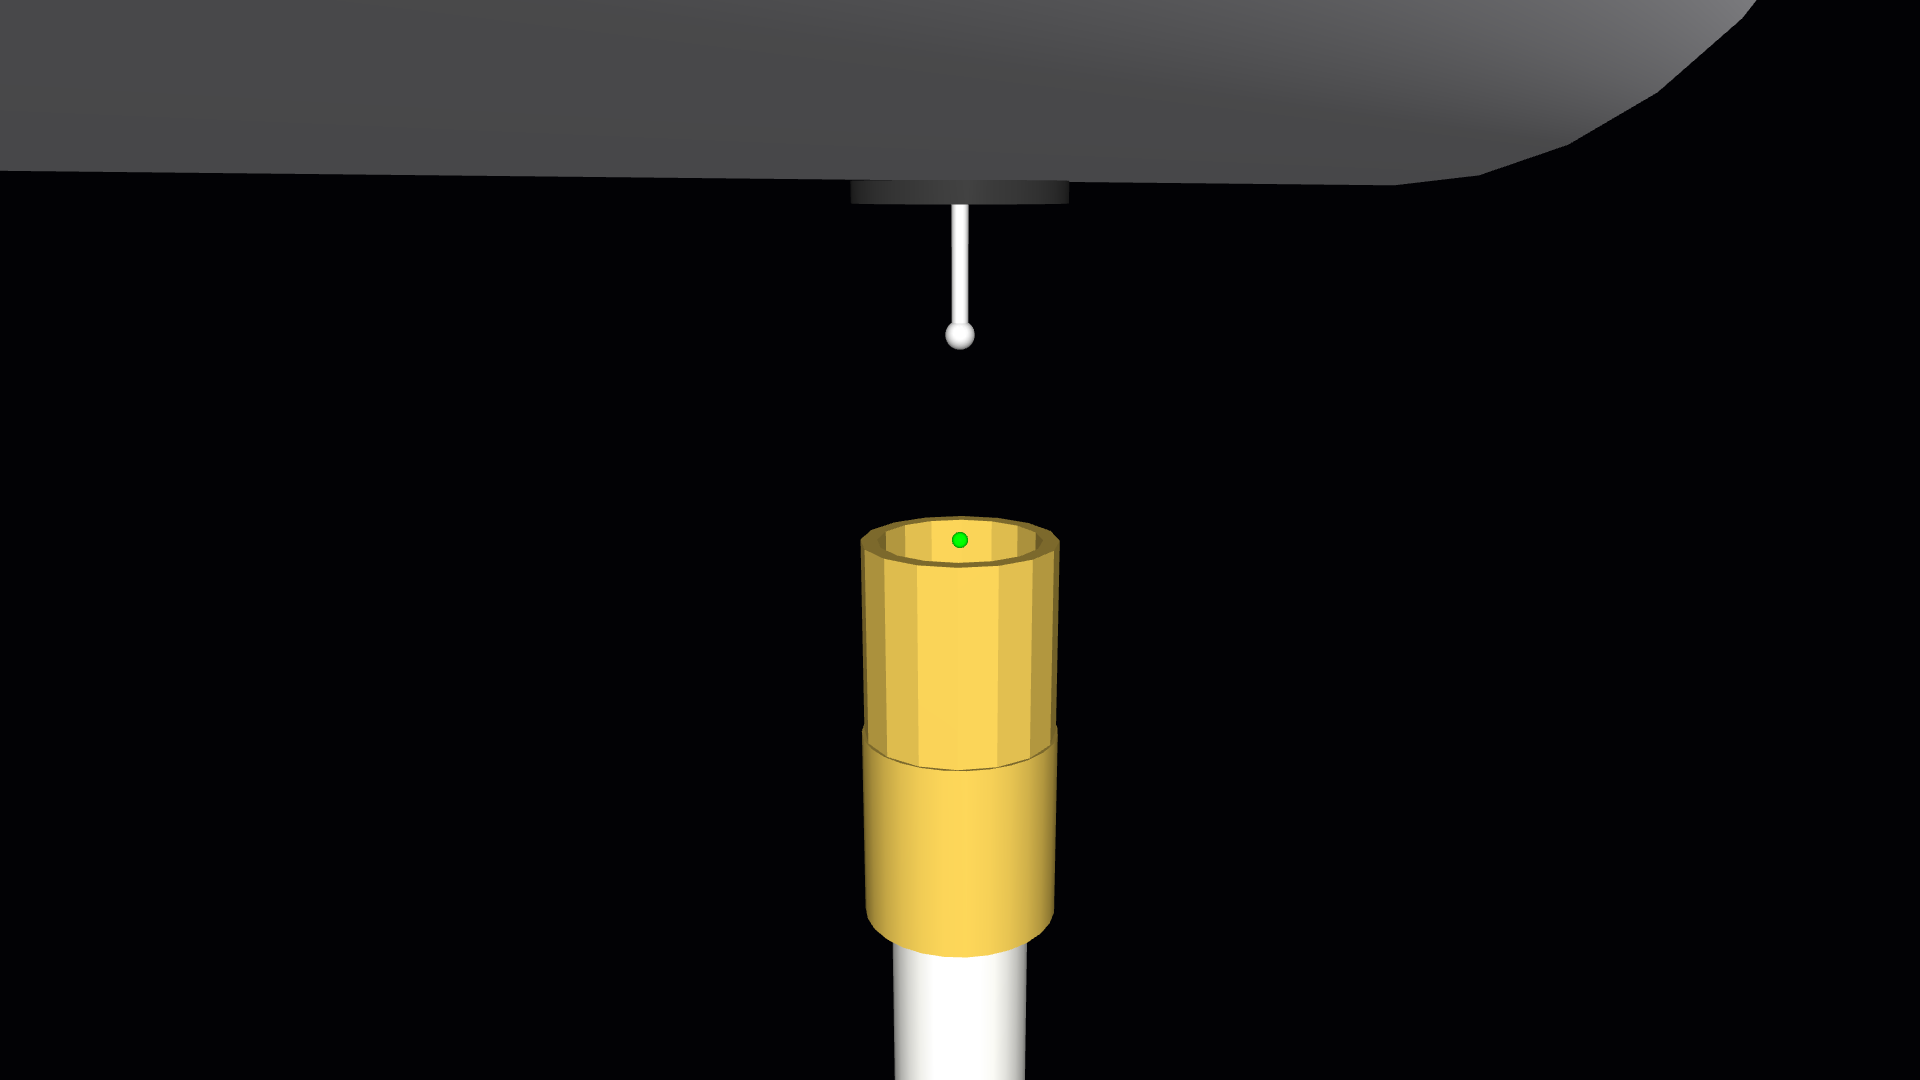
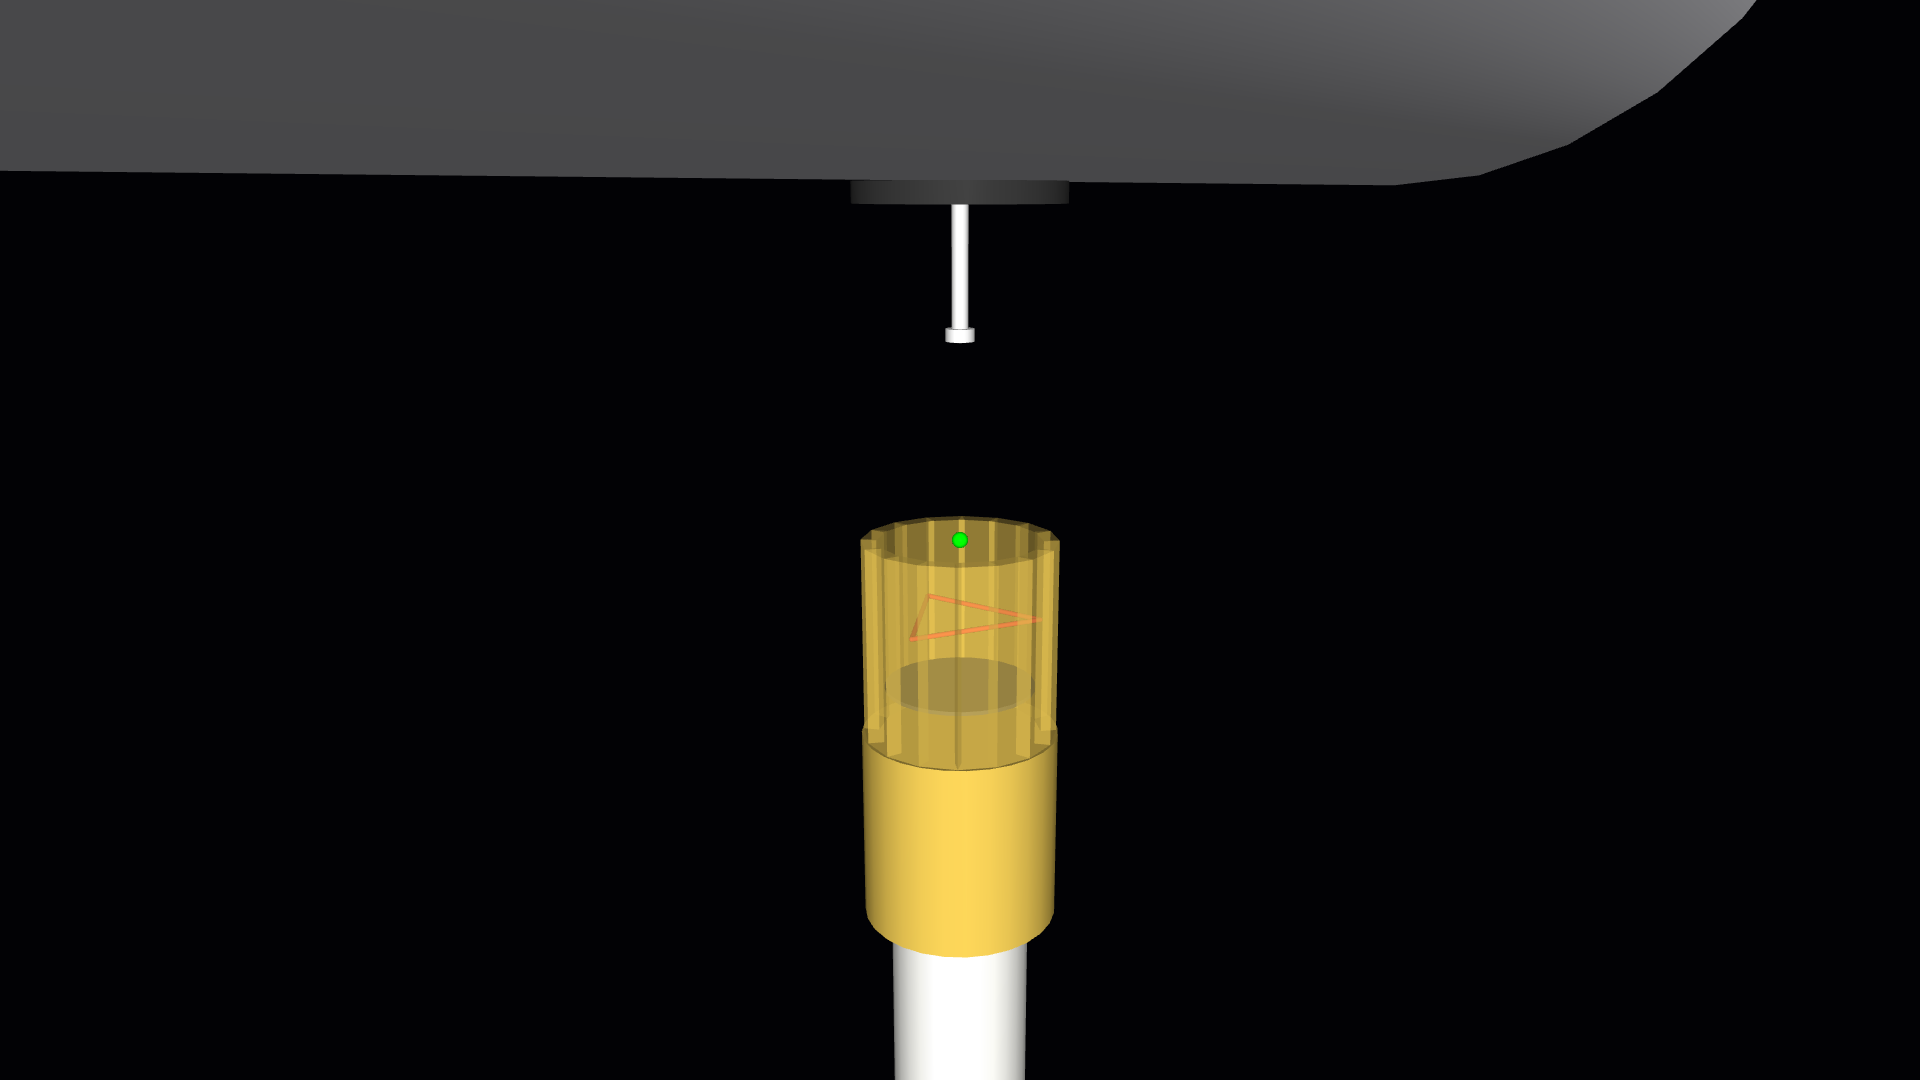
Milestone 2: snare mechanism
Add a carriage and three closing bars inside the end effector. The open
snare is the triangle inscribed in the cavity, giving the published
0.1 m lateral capture tolerance. A single drive closes all three bars.

The first design used a ball-tipped pin and did not hold: the ball
wedged the bars apart under a 100 N pull. A flat-backed knob and a
stiff snare drive fix it. The capture now holds 500 N and stays caught
at 2000 N.

Add eight snare tests, a grapple animation, and the milestone 2 entries
in the plan and build log. The README now says how the project was built.

Changed region(s): [[0.4375, 0.4583, 0.5625, 0.7333]]

diff --git a/tests/test_snare.py b/tests/test_snare.py
@@ -1,0 +1,71 @@
+"""Milestone 2 checks: the snare centres, seats, and holds a pin that starts inside the cavity.
+
+The arm holds still and the vehicle starts at rest; approaching is milestone 3.
+"""
+
+import mujoco
+import numpy as np
+import pytest
+
+from capture import scene, snare
+
+INSERTED = -0.28  # pin tip 0.28 m inside the cavity, past the snare plane
+SEATED = -0.30  # pin length: the fixture plate rests on the rim
+PULL_TIME = 20.0
+
+
+@pytest.fixture(scope="module")
+def model():
+    return scene.build_model()
+
+
+def run(model, lateral=(0.0, 0.0), grapple=True, pull=0.0, stop_after=None):
+    """Run the grapple sequence, then pull the vehicle straight out with `pull` newtons."""
+    data = mujoco.MjData(model)
+    scene.reset(model, data, standoff=INSERTED, lateral=lateral)
+    vid = model.body("vehicle").id
+    dt = model.opt.timestep
+    total = stop_after if stop_after is not None else snare.SEQUENCE_TIME + 2.0 + PULL_TIME
+    for i in range(int(round(total / dt))):
+        t = i * dt
+        if grapple:
+            scene.set_snare(model, data, *snare.grapple_command(t))
+        data.xfrc_applied[vid] = 0
+        if t > snare.SEQUENCE_TIME + 2.0:
+            out = data.site("lee_mouth").xmat.reshape(3, 3)[:, 2]
+            data.xfrc_applied[vid, :3] = pull * out
+        mujoco.mj_step(model, data)
+    return data
+
+
+def test_open_snare_does_not_touch_the_pin(model):
+    data = run(model, lateral=(0.05, 0.0), grapple=False, stop_after=1.0)
+    assert data.ncon == 0
+
+
+def test_snare_centres_an_offset_pin(model):
+    data = run(model, lateral=(0.06, 0.02), stop_after=snare.CLOSE_TIME + snare.SETTLE_TIME)
+    assert np.linalg.norm(scene.pin_offset(model, data)[:2]) < 0.005
+
+
+def test_pull_in_seats_the_fixture_plate(model):
+    data = run(model, stop_after=snare.SEQUENCE_TIME + 2.0)
+    assert scene.pin_offset(model, data)[2] == pytest.approx(SEATED, abs=0.002)
+
+
+@pytest.mark.parametrize("lateral", [(0.0, 0.0), (0.06, 0.02), (0.085, 0.0)])
+def test_capture_holds_against_500_newtons(model, lateral):
+    offset = scene.pin_offset(model, run(model, lateral=lateral, pull=500.0))
+    assert offset[2] == pytest.approx(SEATED, abs=0.002)
+    assert np.linalg.norm(offset[:2]) < 0.005
+
+
+def test_overload_backs_the_pin_out_but_keeps_it(model):
+    # 2000 N is twice the carriage force limit: the plate unseats, the snare still holds.
+    z = scene.pin_offset(model, run(model, pull=2000.0))[2]
+    assert SEATED + 0.02 < z < 0
+
+
+def test_without_the_snare_the_vehicle_escapes(model):
+    z = scene.pin_offset(model, run(model, grapple=False, pull=100.0))[2]
+    assert z > 1.0

diff --git a/capture/scene.py b/capture/scene.py
@@ -27,6 +27,11 @@ WALL_THICKNESS = 0.04
 WALL_SEGMENTS = 16
 WALL_MASS = 40.0
 
+# Snare actuator travel [m]. The bars start 0.1 m from the axis; commanding past the
+# pin surface makes them press on it. The carriage pulls the closed snare inward.
+SNARE_TRAVEL = 0.08
+CARRIAGE_TRAVEL = 0.1
+
 
 def _add_cavity_wall(spec: mujoco.MjSpec) -> None:
     """Approximate a hollow cylinder with a ring of boxes.
@@ -48,6 +53,7 @@ def _add_cavity_wall(spec: mujoco.MjSpec) -> None:
             pos=[r_mid * np.cos(phi), r_mid * np.sin(phi), (CAVITY_Z0 + CAVITY_Z1) / 2],
             quat=[np.cos(theta / 2), 0, 0, np.sin(theta / 2)],
             mass=WALL_MASS / WALL_SEGMENTS,
+            rgba=[0.85, 0.72, 0.3, 0.35],  # see-through, so the snare is visible
         )
 
 
@@ -64,7 +70,22 @@ def arm_qpos_adr(model: mujoco.MjModel) -> np.ndarray:
 def set_arm(model: mujoco.MjModel, data: mujoco.MjData, q: np.ndarray) -> None:
     """Put the arm at joint angles q and command the actuators to hold it there."""
     data.qpos[arm_qpos_adr(model)] = q
-    data.ctrl[:] = q
+    data.ctrl[: len(ARM_JOINTS)] = q
+
+
+def set_snare(model: mujoco.MjModel, data: mujoco.MjData, close: float, retract: float) -> None:
+    """Command the snare. Both arguments run from 0 (open / extended) to 1 (closed / retracted)."""
+    data.ctrl[model.actuator("a_snare").id] = close * SNARE_TRAVEL
+    data.ctrl[model.actuator("a_carriage").id] = retract * CARRIAGE_TRAVEL
+
+
+def pin_offset(model: mujoco.MjModel, data: mujoco.MjData) -> np.ndarray:
+    """Pin tip position in the end-effector mouth frame: (x, y) lateral, z along the approach axis.
+
+    z is positive outside the cavity and negative inside it.
+    """
+    mouth = data.site("lee_mouth")
+    return mouth.xmat.reshape(3, 3).T @ (data.site("pin_tip").xpos - mouth.xpos)
 
 
 def place_vehicle(
@@ -76,6 +97,7 @@ def place_vehicle(
     """Place the vehicle so its grapple pin faces the end-effector mouth.
 
     standoff: distance from the mouth to the pin tip along the approach axis [m].
+              Negative puts the tip inside the cavity.
     lateral:  pin offset from the approach axis, in the end-effector x/y [m].
 
     Uses the arm's current pose. Vehicle velocity is left unchanged.

diff --git a/scripts/render_capture.py b/scripts/render_capture.py
@@ -1,0 +1,54 @@
+"""Render the grapple sequence (close, centre, pull in) to docs/media/."""
+
+import sys
+from pathlib import Path
+
+import mujoco
+from PIL import Image
+
+ROOT = Path(__file__).resolve().parent.parent
+sys.path.insert(0, str(ROOT))
+
+from capture import scene, snare  # noqa: E402
+
+OUT = ROOT / "docs" / "media"
+FPS = 10
+DURATION = snare.SEQUENCE_TIME + 1.5
+STILLS = {"snare_open": 0.0, "snare_closed": snare.CLOSE_TIME + 1.0, "snare_seated": snare.SEQUENCE_TIME + 1.0}
+
+
+def main() -> None:
+    model = scene.build_model()
+    data = mujoco.MjData(model)
+    # Start 6 cm off-centre so the centring action is visible.
+    scene.reset(model, data, standoff=-0.28, lateral=(0.06, 0.0))
+
+    cam = mujoco.MjvCamera()
+    cam.lookat[:] = data.site("lee_mouth").xpos - [0, 0, 0.12]
+    cam.distance, cam.azimuth, cam.elevation = 1.5, 90.0, -12.0
+
+    dt = model.opt.timestep
+    every = int(round(1 / FPS / dt))
+    still_steps = {int(round(t / dt)): name for name, t in STILLS.items()}
+    frames = []
+    OUT.mkdir(parents=True, exist_ok=True)
+    with mujoco.Renderer(model, height=540, width=960) as renderer:
+        for i in range(int(round(DURATION / dt)) + 1):
+            if i % every == 0 or i in still_steps:
+                renderer.update_scene(data, camera=cam)
+                img = Image.fromarray(renderer.render())
+                if i % every == 0:
+                    frames.append(img.resize((640, 360)))
+                if i in still_steps:
+                    img.save(OUT / f"{still_steps[i]}.png")
+                    print("wrote", f"docs/media/{still_steps[i]}.png")
+            scene.set_snare(model, data, *snare.grapple_command(i * dt))
+            mujoco.mj_step(model, data)
+
+    gif = OUT / "snare_capture.gif"
+    frames[0].save(gif, save_all=True, append_images=frames[1:], duration=1000 // FPS, loop=0, optimize=True)
+    print("wrote", gif.relative_to(ROOT), f"({gif.stat().st_size / 1e6:.1f} MB, {len(frames)} frames)")
+
+
+if __name__ == "__main__":
+    main()

diff --git a/tests/test_scene.py b/tests/test_scene.py
@@ -18,9 +18,10 @@ def steps(model, seconds):
 
 def test_zero_gravity_and_layout(model):
     assert np.all(model.opt.gravity == 0)
-    assert model.nu == len(scene.ARM_JOINTS) == 7
-    # 7 hinge joints + one free joint (3 position + 4 quaternion)
-    assert model.nq == 7 + 7
+    # 7 arm motors, plus the snare drive and the carriage drive
+    assert model.nu == len(scene.ARM_JOINTS) + 2 == 9
+    # 7 arm joints, 4 snare slides, one free joint (3 position + 4 quaternion)
+    assert model.nq == 7 + 4 + 7
 
 
 def test_arm_reach_matches_canadarm2(model):
@@ -80,8 +81,9 @@ def test_arm_tracks_a_step_command(model):
     scene.reset(model, data, standoff=3.0)
     adr = scene.arm_qpos_adr(model)
     target = scene.READY_POSE + np.array([0.1, 0.05, -0.1, 0.1, 0.05, 0.1, -0.1])
-    data.ctrl[:] = target
+    data.ctrl[: len(scene.ARM_JOINTS)] = target
     for _ in range(steps(model, 30.0)):
         mujoco.mj_step(model, data)
     assert data.qpos[adr] == pytest.approx(target, abs=5e-3)
-    assert np.abs(data.qvel[:7]).max() < 1e-3
+    dof = [model.joint(n).dofadr[0] for n in scene.ARM_JOINTS]
+    assert np.abs(data.qvel[dof]).max() < 1e-3

diff --git a/scripts/plan_diagram.py b/scripts/plan_diagram.py
@@ -12,8 +12,8 @@ OUT = Path(__file__).resolve().parent.parent / "docs" / "media" / "plan.svg"
 # (label, title, line 1, line 2, status)
 STAGES = [
     ("1 · ZERO-G WORLD", "Build the scene", "7-joint arm · drifting vehicle", "Grapple pin · hollow end effector", "done"),
-    ("2 · GRAPPLE MECHANISM", "Model the snare", "Closing mechanism on the pin", "Contact friction + compliance", "next"),
-    ("3 · CLOSED LOOP", "Approach and capture", "Track the pin · trigger the snare", "Actuator limits + delay", "planned"),
+    ("2 · GRAPPLE MECHANISM", "Model the snare", "Closing mechanism on the pin", "Contact friction + compliance", "done"),
+    ("3 · CLOSED LOOP", "Approach and capture", "Track the pin · trigger the snare", "Actuator limits + delay", "next"),
     ("4 · REPEATABLE TRIALS", "Measure outcomes", "Success criteria · failure types", "Logs · plots · video", "planned"),
 ]
 EXPERIMENTS = [

diff --git a/capture/snare.py b/capture/snare.py
@@ -1,0 +1,13 @@
+"""Timing of the grapple sequence: close the snare, pause, then pull the pin in."""
+
+CLOSE_TIME = 2.0  # s for the snare to close
+SETTLE_TIME = 2.0  # s between closed and the start of the pull-in
+RETRACT_TIME = 2.0  # s for the carriage to retract
+SEQUENCE_TIME = CLOSE_TIME + SETTLE_TIME + RETRACT_TIME
+
+
+def grapple_command(t: float) -> tuple[float, float]:
+    """Snare (close, retract) fractions t seconds after the grapple is triggered."""
+    close = min(max(t / CLOSE_TIME, 0.0), 1.0)
+    retract = min(max((t - CLOSE_TIME - SETTLE_TIME) / RETRACT_TIME, 0.0), 1.0)
+    return close, retract

diff --git a/docs/PLAN.md b/docs/PLAN.md
@@ -22,8 +22,8 @@ The project is simulation only. It is a reasoned study of a real operation, not 
 | # | Milestone | Status | Done when |
 |---|---|---|---|
 | 1 | Zero-g scene | Done (2026-10-10) | Arm and vehicle load, momentum is conserved, arm tracks commands |
-| 2 | Snare mechanism | Next | A closing mechanism holds the pin against a pull-out force |
-| 3 | Approach and capture | Planned | A controller completes a capture from a nominal start |
+| 2 | Snare mechanism | Done (2026-10-10) | A closing mechanism holds the pin against a pull-out force |
+| 3 | Approach and capture | Next | A controller completes a capture from a nominal start |
 | 4 | Trial harness | Planned | One command runs N trials and reports success rate and failure types |
 | 5 | Experiment A: capture envelope | Planned | Success map over misalignment, drift, and tumble |
 | 6 | Experiment B: parameter sensitivity | Planned | Matched trials showing the effect of friction, compliance, and delay |
@@ -39,6 +39,10 @@ The project is simulation only. It is a reasoned study of a real operation, not 
 | 2026-10-10 | Everything runs on a MacBook (CPU only) | No NVIDIA GPU available; rules out Isaac Sim and the Omniverse runtime libraries |
 | 2026-10-10 | MuJoCo first, Newton as a second engine later | The task is rigid-body only; MuJoCo is mature on macOS and easy to debug |
 | 2026-10-10 | Build the hollow end effector from a ring of 16 boxes | MuJoCo collides convex shapes, so a cavity cannot be one mesh |
+| 2026-10-10 | Model the snare as three rigid bars forming a shrinking triangle | Real snares are cables; rigid bars reproduce the centring and catching action without cable simulation |
+| 2026-10-10 | Open snare is the triangle inscribed in the cavity (inradius 0.1 m) | Matches the published lateral capture tolerance of ±0.1 m for this end-effector design |
+| 2026-10-10 | Flat-backed knob on the pin tip, not a ball | A ball wedged the bars apart under load and the pin slipped out |
+| 2026-10-10 | Stiff, high-force snare drive | The real drive is geared and is not pushed back open by load on the pin |
 | 2026-10-10 | Treat the station as fixed and the arm as rigid | The station is about 60 times heavier than the vehicle; arm flexibility is left out to keep the first version simple |
 
 ## Assumptions to verify
@@ -49,11 +53,19 @@ These are placeholders, chosen to be plausible. Each needs a source or an explic
 - Vehicle: 3.07 m diameter, 6.4 m long, 7,000 kg. Grapple fixture position on the hull is a guess.
 - Grapple pin: 0.3 m long, 2 cm radius. End-effector cavity: 0.2 m inner radius, 0.5 m deep.
 - Joint gains, damping, and reflected inertia are invented for stable tracking. No torque or speed limits yet.
-- Whether NASA or CSA publish capture limits we can compare against.
+- Snare: bar radius 6 mm, closing time 2 s, drive force limit 1,500 N, carriage force limit 1,000 N, friction 0.6. All invented.
+- Pin tip knob: 3.5 cm radius, 3 cm long. The real fixture's shaft and cam geometry is not reproduced.
+- Capture limits: a NASA report on this end-effector design gives ±0.1 m lateral and 0.1 m axial misalignment tolerance. Angular limits and limits on relative velocity still to find.
 - Which free 3D models exist to replace the primitive shapes.
 
 ## Risks
 
-- **Snare modelling.** Three wires closing on a pin is hard to model exactly. The fallback is a simplified rigid closing mechanism.
+- **Snare modelling.** Resolved for now with rigid bars (milestone 2). The bars cannot stretch or wrap like cables, which may matter for angular misalignment.
 - **Contact tuning.** Stiff contact in zero gravity may need a smaller timestep or solver tuning.
 - **Newton on macOS.** Supported in CPU-only mode but untested here.
+
+## References
+
+- NASA, Shuttle remote manipulator end effector report (misalignment tolerances): https://ntrs.nasa.gov/api/citations/19820015473/downloads/19820015473.pdf
+- Canadian Space Agency, Canadarm2's Latching End Effector: https://www.asc-csa.gc.ca/eng/multimedia/search/image/9362
+- Grapple fixture overview: https://en.wikipedia.org/wiki/Grapple_fixture

diff --git a/docs/DEVLOG.md b/docs/DEVLOG.md
@@ -57,3 +57,53 @@ Dated entries, newest last. Each one records what was built, why, what the check
 - No snare, no controller, no contact has happened yet.
 
 **Next.** Milestone 2: a closing mechanism inside the end effector that can hold the pin.
+
+## 2026-10-10 · Milestone 2: snare mechanism
+
+**How the real one works.** Three snare cables inside the end effector close around the grapple shaft, then the mechanism pulls the payload in until the interface is rigid. A NASA report gives the design's misalignment tolerance as ±0.1 m lateral and 0.1 m axial.
+
+**Built.**
+
+- A carriage inside the cavity that slides along the approach axis.
+- Three snare bars on the carriage, each sliding inward. Open, they form the triangle inscribed in the cavity, so the opening has a 0.1 m inradius, matching the published lateral tolerance. Closed, they meet around the pin.
+- One drive for all three bars, tied together with joint constraints, like the rotating ring that drives the real cables.
+- `capture/snare.py`: the grapple timing (close over 2 s, pause 2 s, pull in over 2 s).
+- `tests/test_snare.py`: eight checks. `scripts/render_capture.py`: stills and an animation.
+
+![Grapple sequence](media/snare_capture.gif)
+
+| Open, pin 6 cm off-centre | Closed and seated |
+|---|---|
+| ![Open](media/snare_open.png) | ![Seated](media/snare_seated.png) |
+
+**Scope of this milestone.** The pin starts already inside the cavity, the vehicle starts at rest, and the arm only holds still. Approaching a moving vehicle is milestone 3.
+
+**What went wrong: the first design did not hold.** Closing and centring worked on the first try, but a 100 N pull drew the pin straight out. The logged joint positions showed why. The pin had a ball tip, and when the carriage pulled the bars against it, the ball's curved surface pushed the bars outward, from 7.6 cm of travel back to 6.6 cm, until the ball passed through.
+
+Two changes fixed it, both with a physical justification:
+
+1. *Flat-backed knob instead of a ball.* A flat face pushes back along the pin axis only, so it cannot spread the bars.
+2. *Stiff snare drive.* Force limit raised from 300 N to 1,500 N and gain from 2e4 to 1e5 N/m, with 5 kg of reflected inertia on each bar. The real drive is geared and does not get pushed open.
+
+I also put the three bars in one plane. They had been stacked 14 mm apart so they could cross, which loaded the knob off-centre. They do not collide with each other, so one plane works.
+
+**Checks (all pass, 14 in total with milestone 1).**
+
+| Check | Result |
+|---|---|
+| Open snare, pin 5 cm off-centre | No contact |
+| Pin starting 6.3 cm off-centre | Centred to under 5 mm after closing |
+| Pull-in | Pin tip at 0.300 m depth: fixture plate seated on the rim |
+| 500 N pull-out for 20 s, from three start offsets up to 8.5 cm | Pin does not move (within 2 mm) |
+| 2,000 N pull-out (twice the carriage force limit) | Plate unseats by 8 cm to the carriage end stop; pin still caught |
+| Snare left open, 100 N pull | Vehicle leaves |
+
+**Side effect.** Two milestone 1 tests assumed seven motors; the model now has nine. Updated the tests.
+
+**Not done yet.**
+
+- Bars are rigid. Real cables wrap and stretch.
+- Every snare number (forces, speeds, friction) is invented.
+- No angular misalignment has been tested, only lateral.
+
+**Next.** Milestone 3: move the arm to a drifting vehicle and trigger the grapple.

diff --git a/README.md b/README.md
@@ -2,11 +2,11 @@
 
 A MuJoCo simulation of a space station arm capturing a free-floating cargo vehicle, built to study how much error the capture tolerates and which physical parameters decide it.
 
-**Status:** early. The zero-gravity scene exists and is checked; there is no capture mechanism or controller yet. See the [plan](docs/PLAN.md) and the [build log](docs/DEVLOG.md).
+**Status:** early. The scene and the snare mechanism work: a pin placed inside the end effector is centred, pulled in, and held. The arm does not yet approach a moving vehicle. See the [plan](docs/PLAN.md) and the [build log](docs/DEVLOG.md).
 
 ![Project plan](docs/media/plan.svg)
 
-![End effector and grapple pin](docs/media/scene_closeup.png)
+![Grapple sequence](docs/media/snare_capture.gif)
 
 ## Run it
 
@@ -14,7 +14,7 @@ A MuJoCo simulation of a space station arm capturing a free-floating cargo vehic
 python3 -m venv .venv
 .venv/bin/pip install -e ".[dev]"
 .venv/bin/python -m pytest
-.venv/bin/python scripts/render_scene.py
+.venv/bin/python scripts/render_capture.py
 ```
 
 Runs on CPU. Developed on an Apple Silicon Mac with MuJoCo 3.15.
@@ -22,3 +22,7 @@ Runs on CPU. Developed on an Apple Silicon Mac with MuJoCo 3.15.
 ## Scope
 
 Simulation only. Dimensions and masses are approximations of Canadarm2 and a Cygnus-class vehicle, not engineering data, and nothing here is validated against flight data.
+
+## How this was built
+
+I directed the project and made the design decisions; the code was written with Claude Code. The [build log](docs/DEVLOG.md) records each step, including the approaches that failed.

diff --git a/CLAUDE.md b/CLAUDE.md
@@ -26,4 +26,5 @@ Do this as part of every piece of work, not at the end:
 ## Git
 
 - One commit per milestone, authored by the user, pushed to `origin` (github.com/dara-miao/canadarm-capture).
+- No `Co-Authored-By` line on commits. The README's "How this was built" section credits Claude Code instead.
 - Update `docs/PLAN.md`, `docs/DEVLOG.md`, and the plan diagram in the same commit as the milestone they describe.
